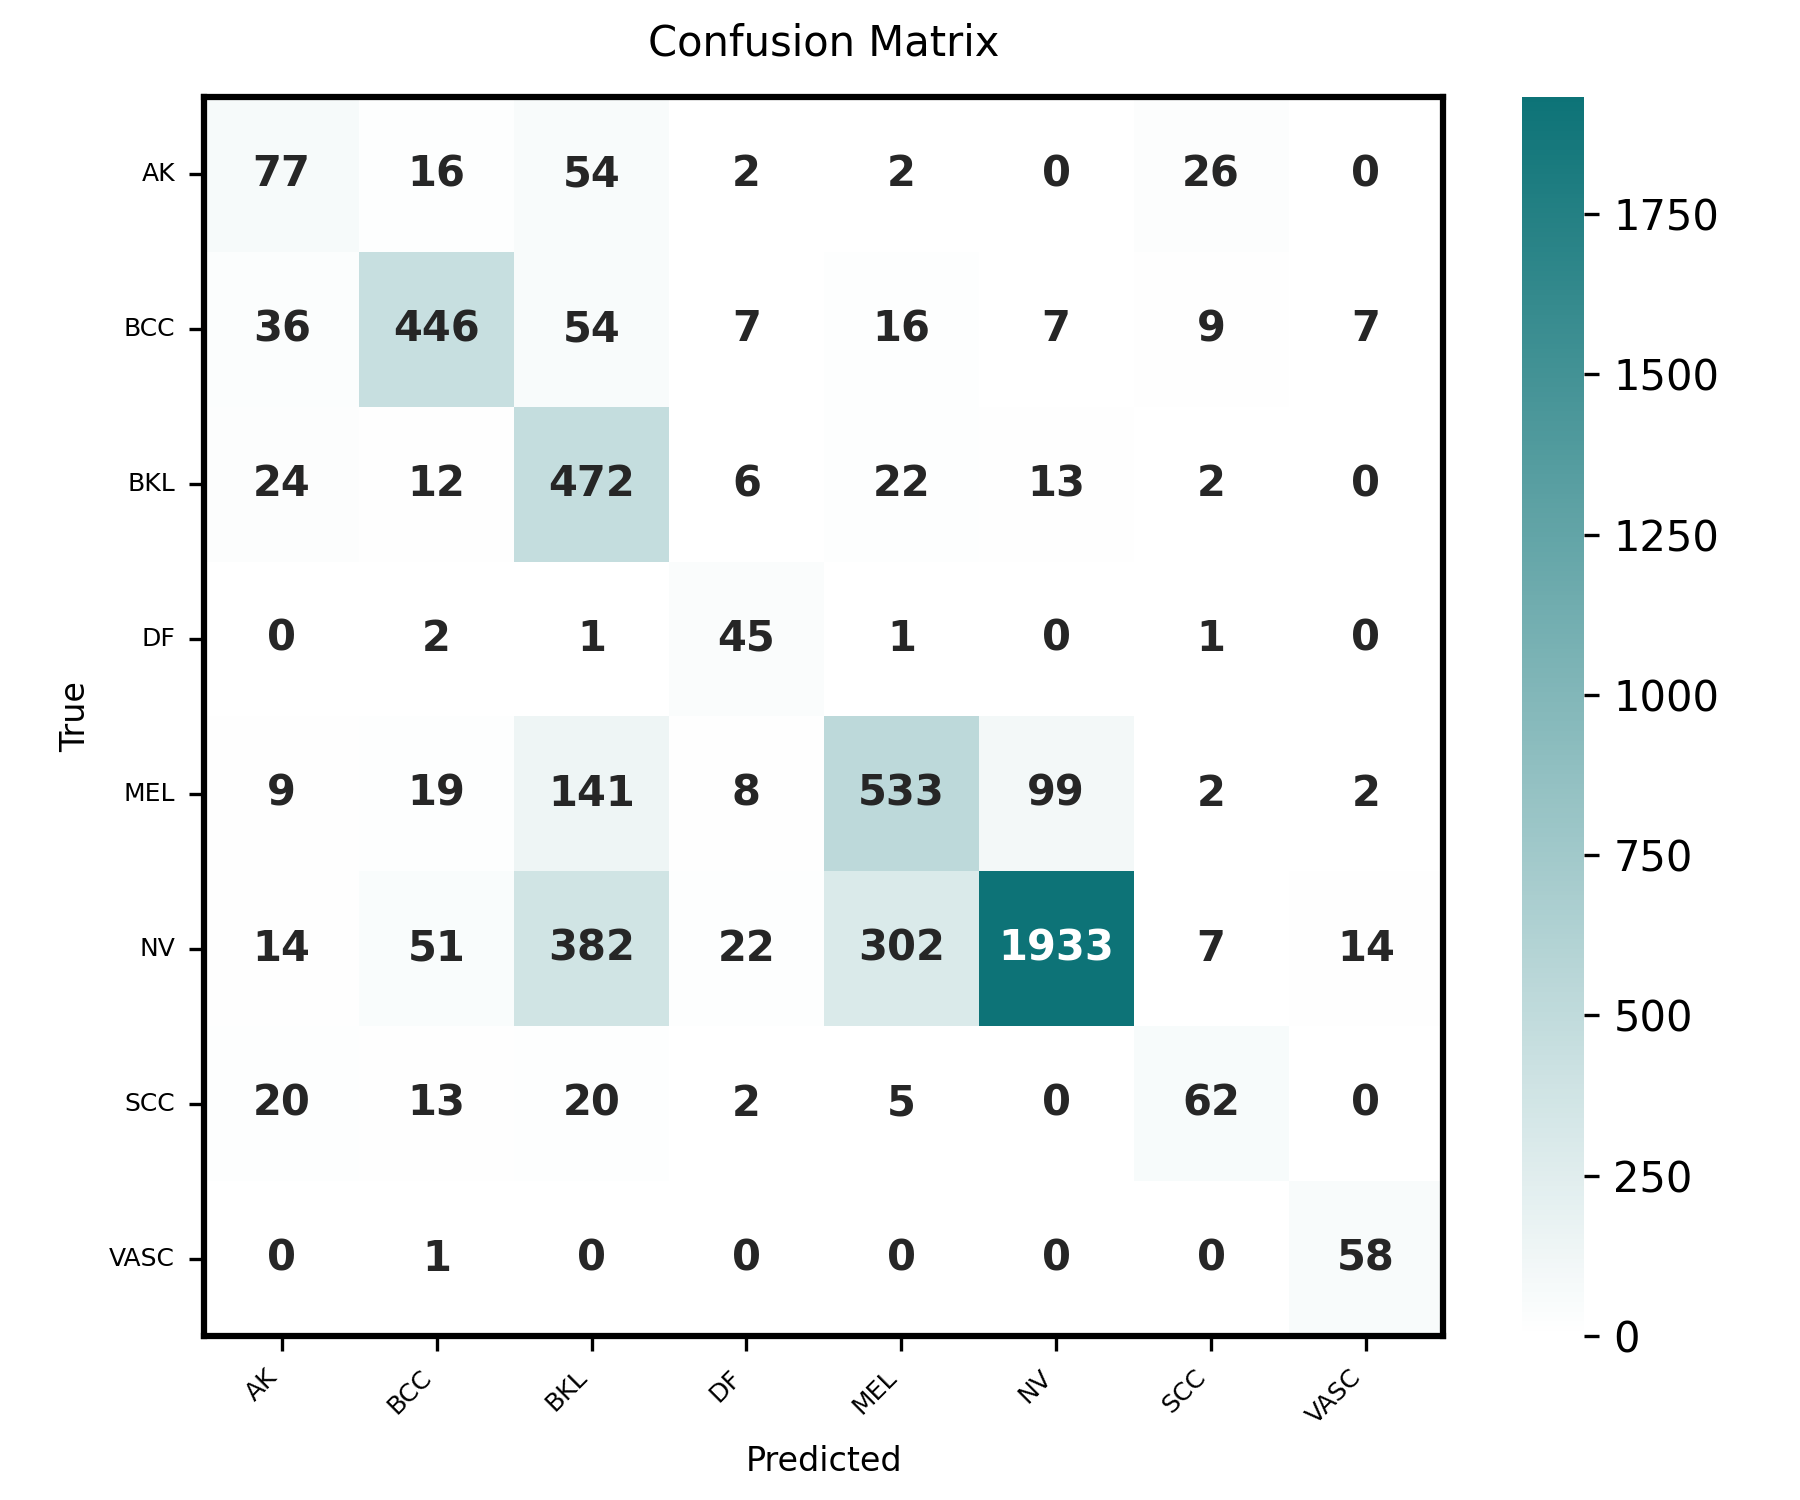
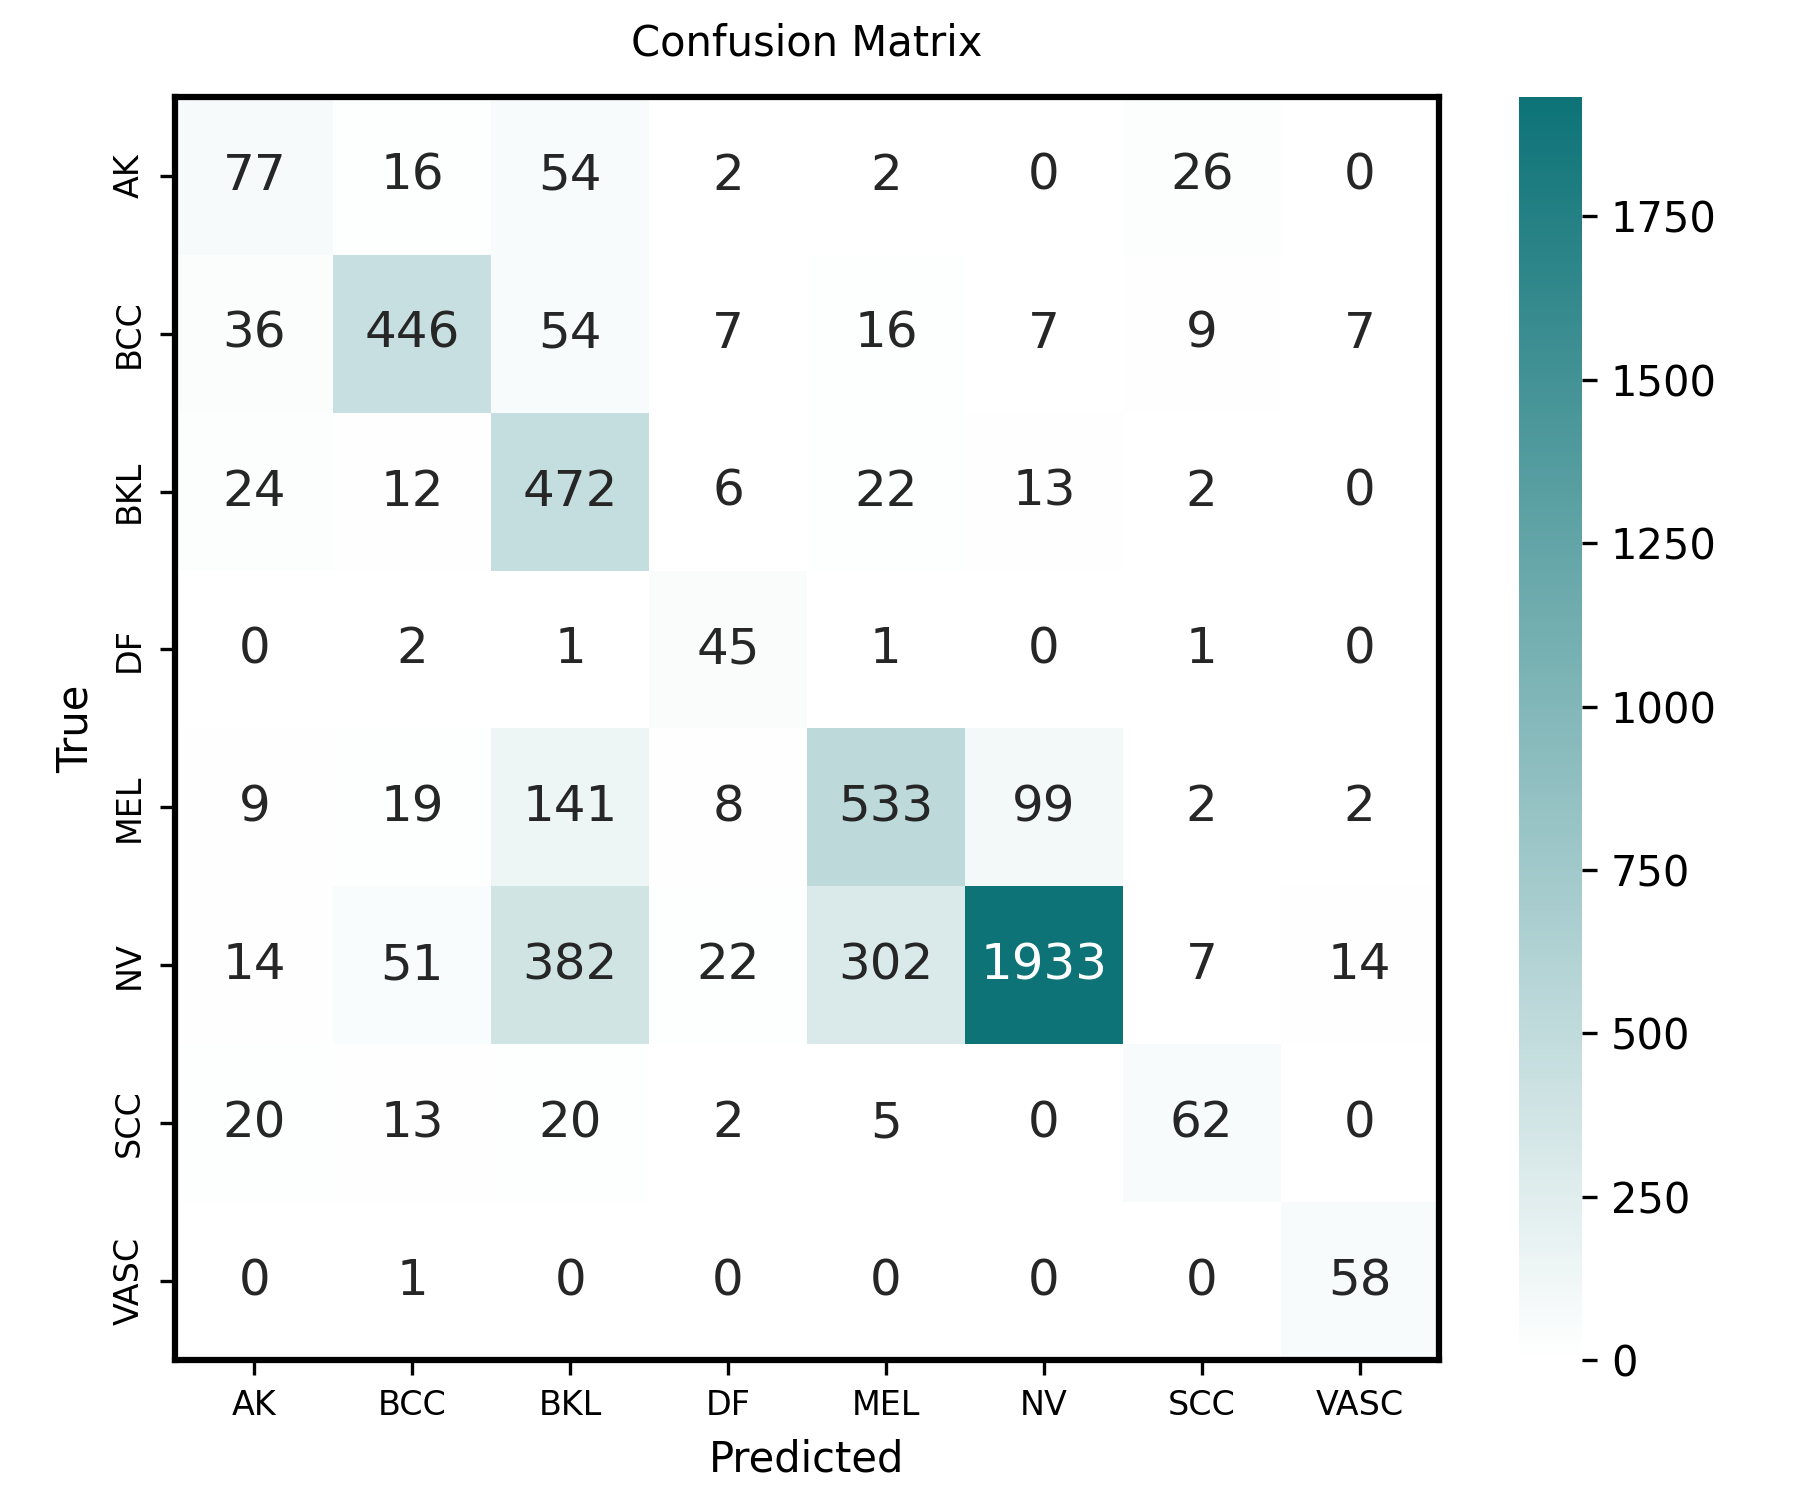
update tables/graphs/plots

diff --git a/ML_Model/evaluate_roc.py b/ML_Model/evaluate_roc.py
@@ -8,7 +8,7 @@ from tensorflow.keras.models import load_model
 
 base_dir = r"D:\Project\Tumor"
 val_dir = os.path.join(base_dir, "val")
-model_path = os.path.join(base_dir, "tumor_classifier.h5")
+model_path = os.path.join(base_dir, "ML_Model", "tumor_classifier.h5")
 model = load_model(model_path)
 
 img_size = (224, 224)
@@ -26,7 +26,7 @@ y_true = val_generator.classes
 y_prob = model.predict(val_generator, verbose=1)
 y_true_onehot = label_binarize(y_true, classes=list(range(len(class_names))))
 
-plt.figure(figsize=(8, 6))
+plt.figure(figsize=(6,8))
 
 for i in range(len(class_names)):
     fpr, tpr, _ = roc_curve(y_true_onehot[:, i], y_prob[:, i])
@@ -42,9 +42,9 @@ plt.ylabel('True Positive Rate (TPR)', fontsize=10)
 plt.title('ROC Curve - Multiclass', fontsize=12)
 plt.xticks(fontsize=8)
 plt.yticks(fontsize=8)
-plt.legend(loc='lower right', fontsize=7)
+plt.legend(loc='lower right', fontsize=14)
 plt.grid(True, linestyle='--', linewidth=0.5, alpha=0.6)
 
 plt.tight_layout()
-plt.savefig(os.path.join(base_dir, "roc_curve_clean.png"), dpi=300)
+plt.savefig(os.path.join(base_dir, "roc_curve.png"), dpi=300)
 plt.show()

diff --git a/ML_Model/confusion_matrix.py b/ML_Model/confusion_matrix.py
@@ -11,7 +11,7 @@ teal_cmap = LinearSegmentedColormap.from_list("custom_teal", ["#ffffff", "#0D737
 
 base_dir = r"D:\Project\Tumor"
 val_dir = os.path.join(base_dir, "val")
-model_path = os.path.join(base_dir, "tumor_classifier.h5")
+model_path = os.path.join(base_dir, "ML_Model", "tumor_classifier.h5")
 
 model = load_model(model_path)
 
@@ -37,7 +37,7 @@ plt.figure(figsize=(6, 5))
 ax = sns.heatmap(
     cm, annot=True, fmt="d", cmap=teal_cmap, cbar=True,
     xticklabels=class_names, yticklabels=class_names,
-    annot_kws={"fontsize": 10, "weight": "bold"},  
+    annot_kws={"fontsize": 12},  
     square=True, linewidths=0, 
 )
 
@@ -45,10 +45,10 @@ for _, spine in ax.spines.items():
     spine.set_visible(True)
     spine.set_linewidth(1.5)  
 
-plt.xlabel('Predicted', fontsize=8)
-plt.ylabel('True', fontsize=8)
-plt.xticks(fontsize=6, rotation=45, ha='right')
-plt.yticks(fontsize=6, rotation=0)
+plt.xlabel('Predicted', fontsize=10)
+plt.ylabel('True', fontsize=10)
+plt.xticks(fontsize=8)
+plt.yticks(fontsize=8)
 plt.title('Confusion Matrix', fontsize=10, pad=10)
 
 plt.tight_layout(pad=1.0)

diff --git a/ML_Model/evaluate_metric_table.py b/ML_Model/evaluate_metric_table.py
@@ -62,11 +62,18 @@ df = pd.DataFrame(metrics, index=class_names).astype(float)
 df.loc["Mean Value"] = df.mean()
 df = df.T 
 
-plt.figure(figsize=(12, 6))
-sns.heatmap(df, annot=True, fmt=".3f", cmap="YlGnBu",
+plt.figure(figsize=(13, 5))
+ax = sns.heatmap(df, annot=True, fmt=".3f", cmap="YlGnBu",
             annot_kws={"fontsize": 15}, 
             cbar=True, linewidths=0.5)
+
+plt.yticks(fontsize=14)
+plt.xticks(fontsize=12)
+
+cbar = ax.collections[0].colorbar
+cbar.ax.yaxis.set_tick_params(labelsize=15)
+
 plt.title("Evaluation Metrics Per Class")
 plt.tight_layout()
-plt.savefig(os.path.join(base_dir, "metrics_table_heatmap.png"))
+plt.savefig(os.path.join(base_dir, "metrics_table.png"))
 plt.show()
